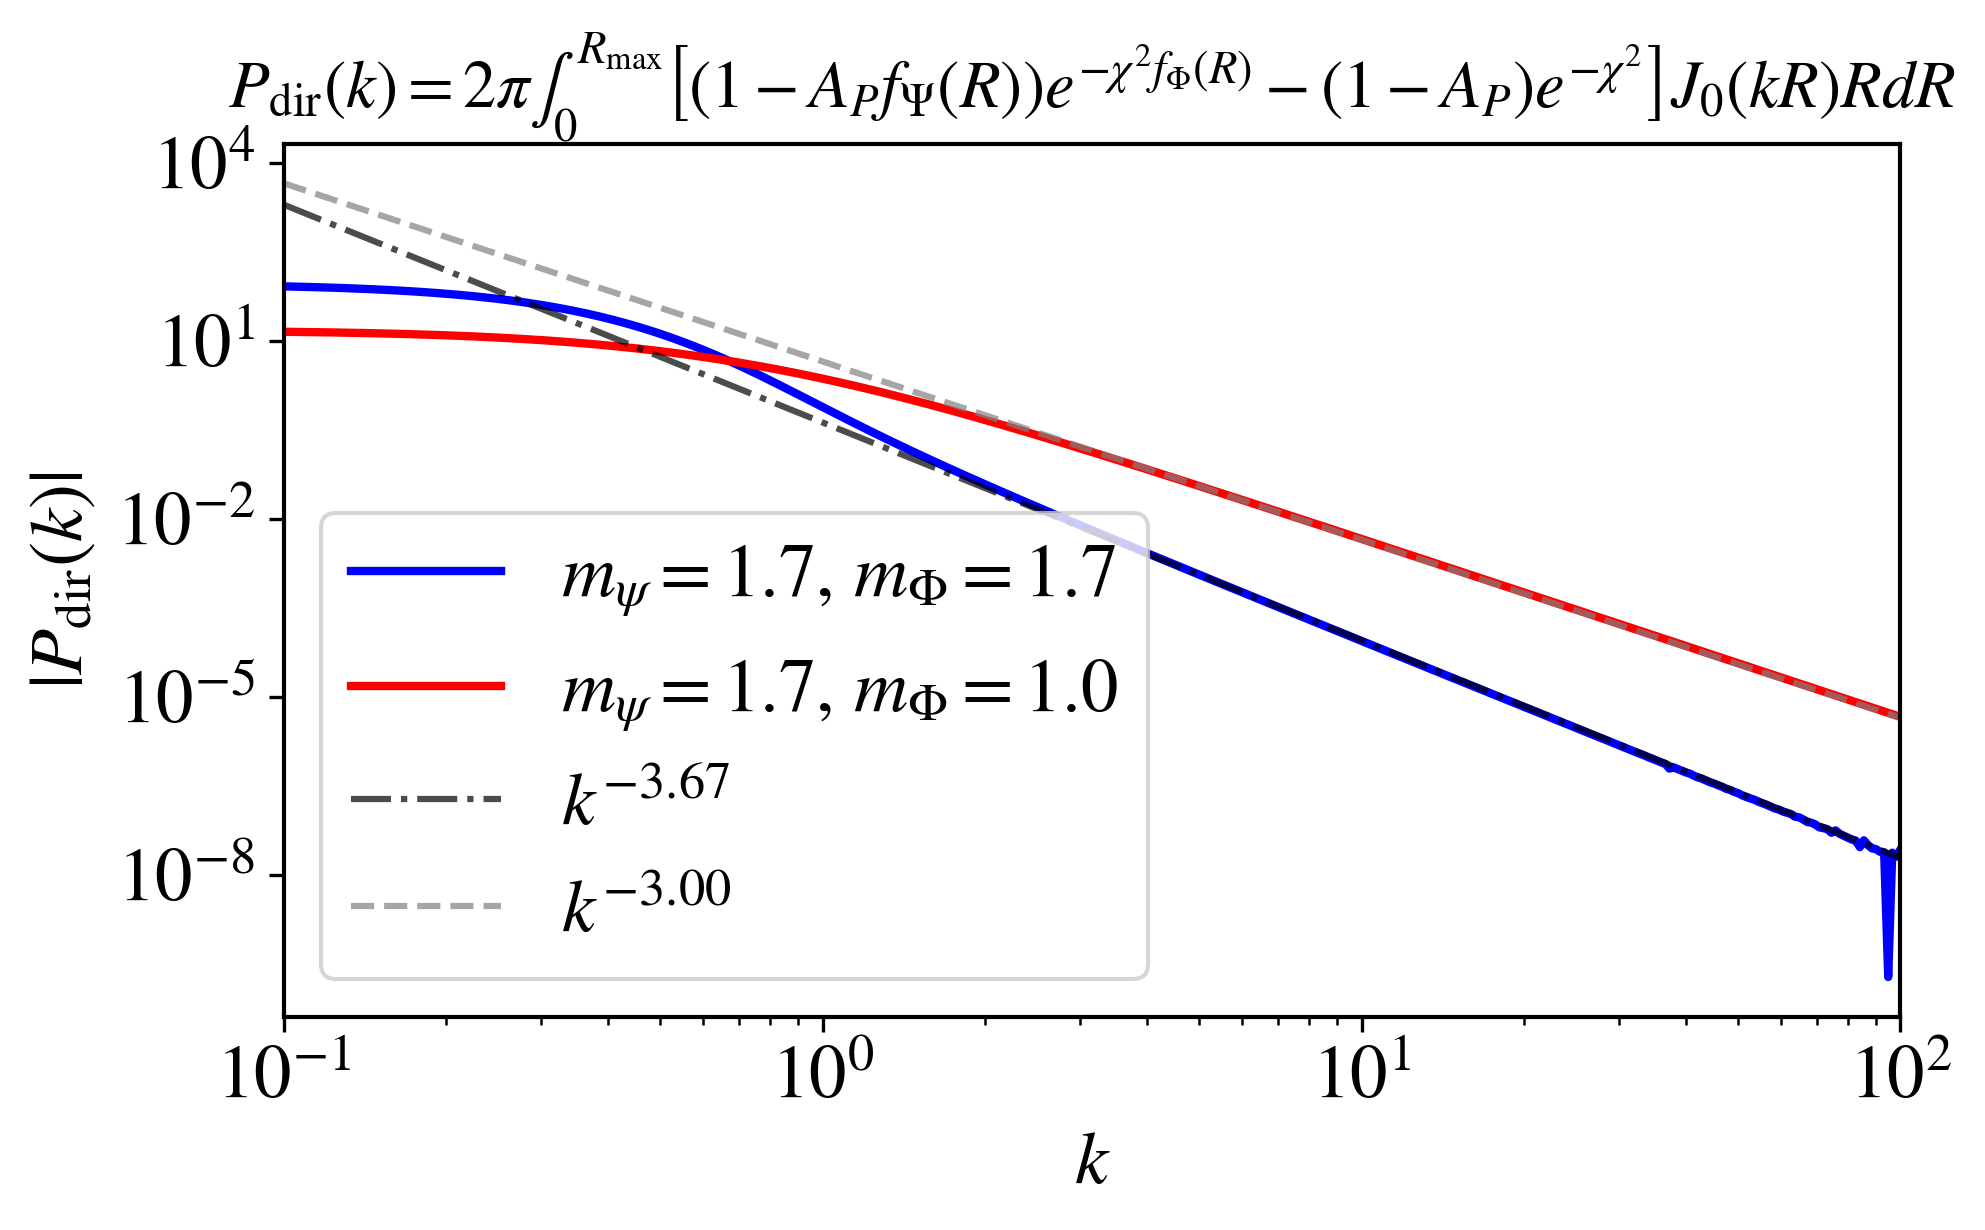
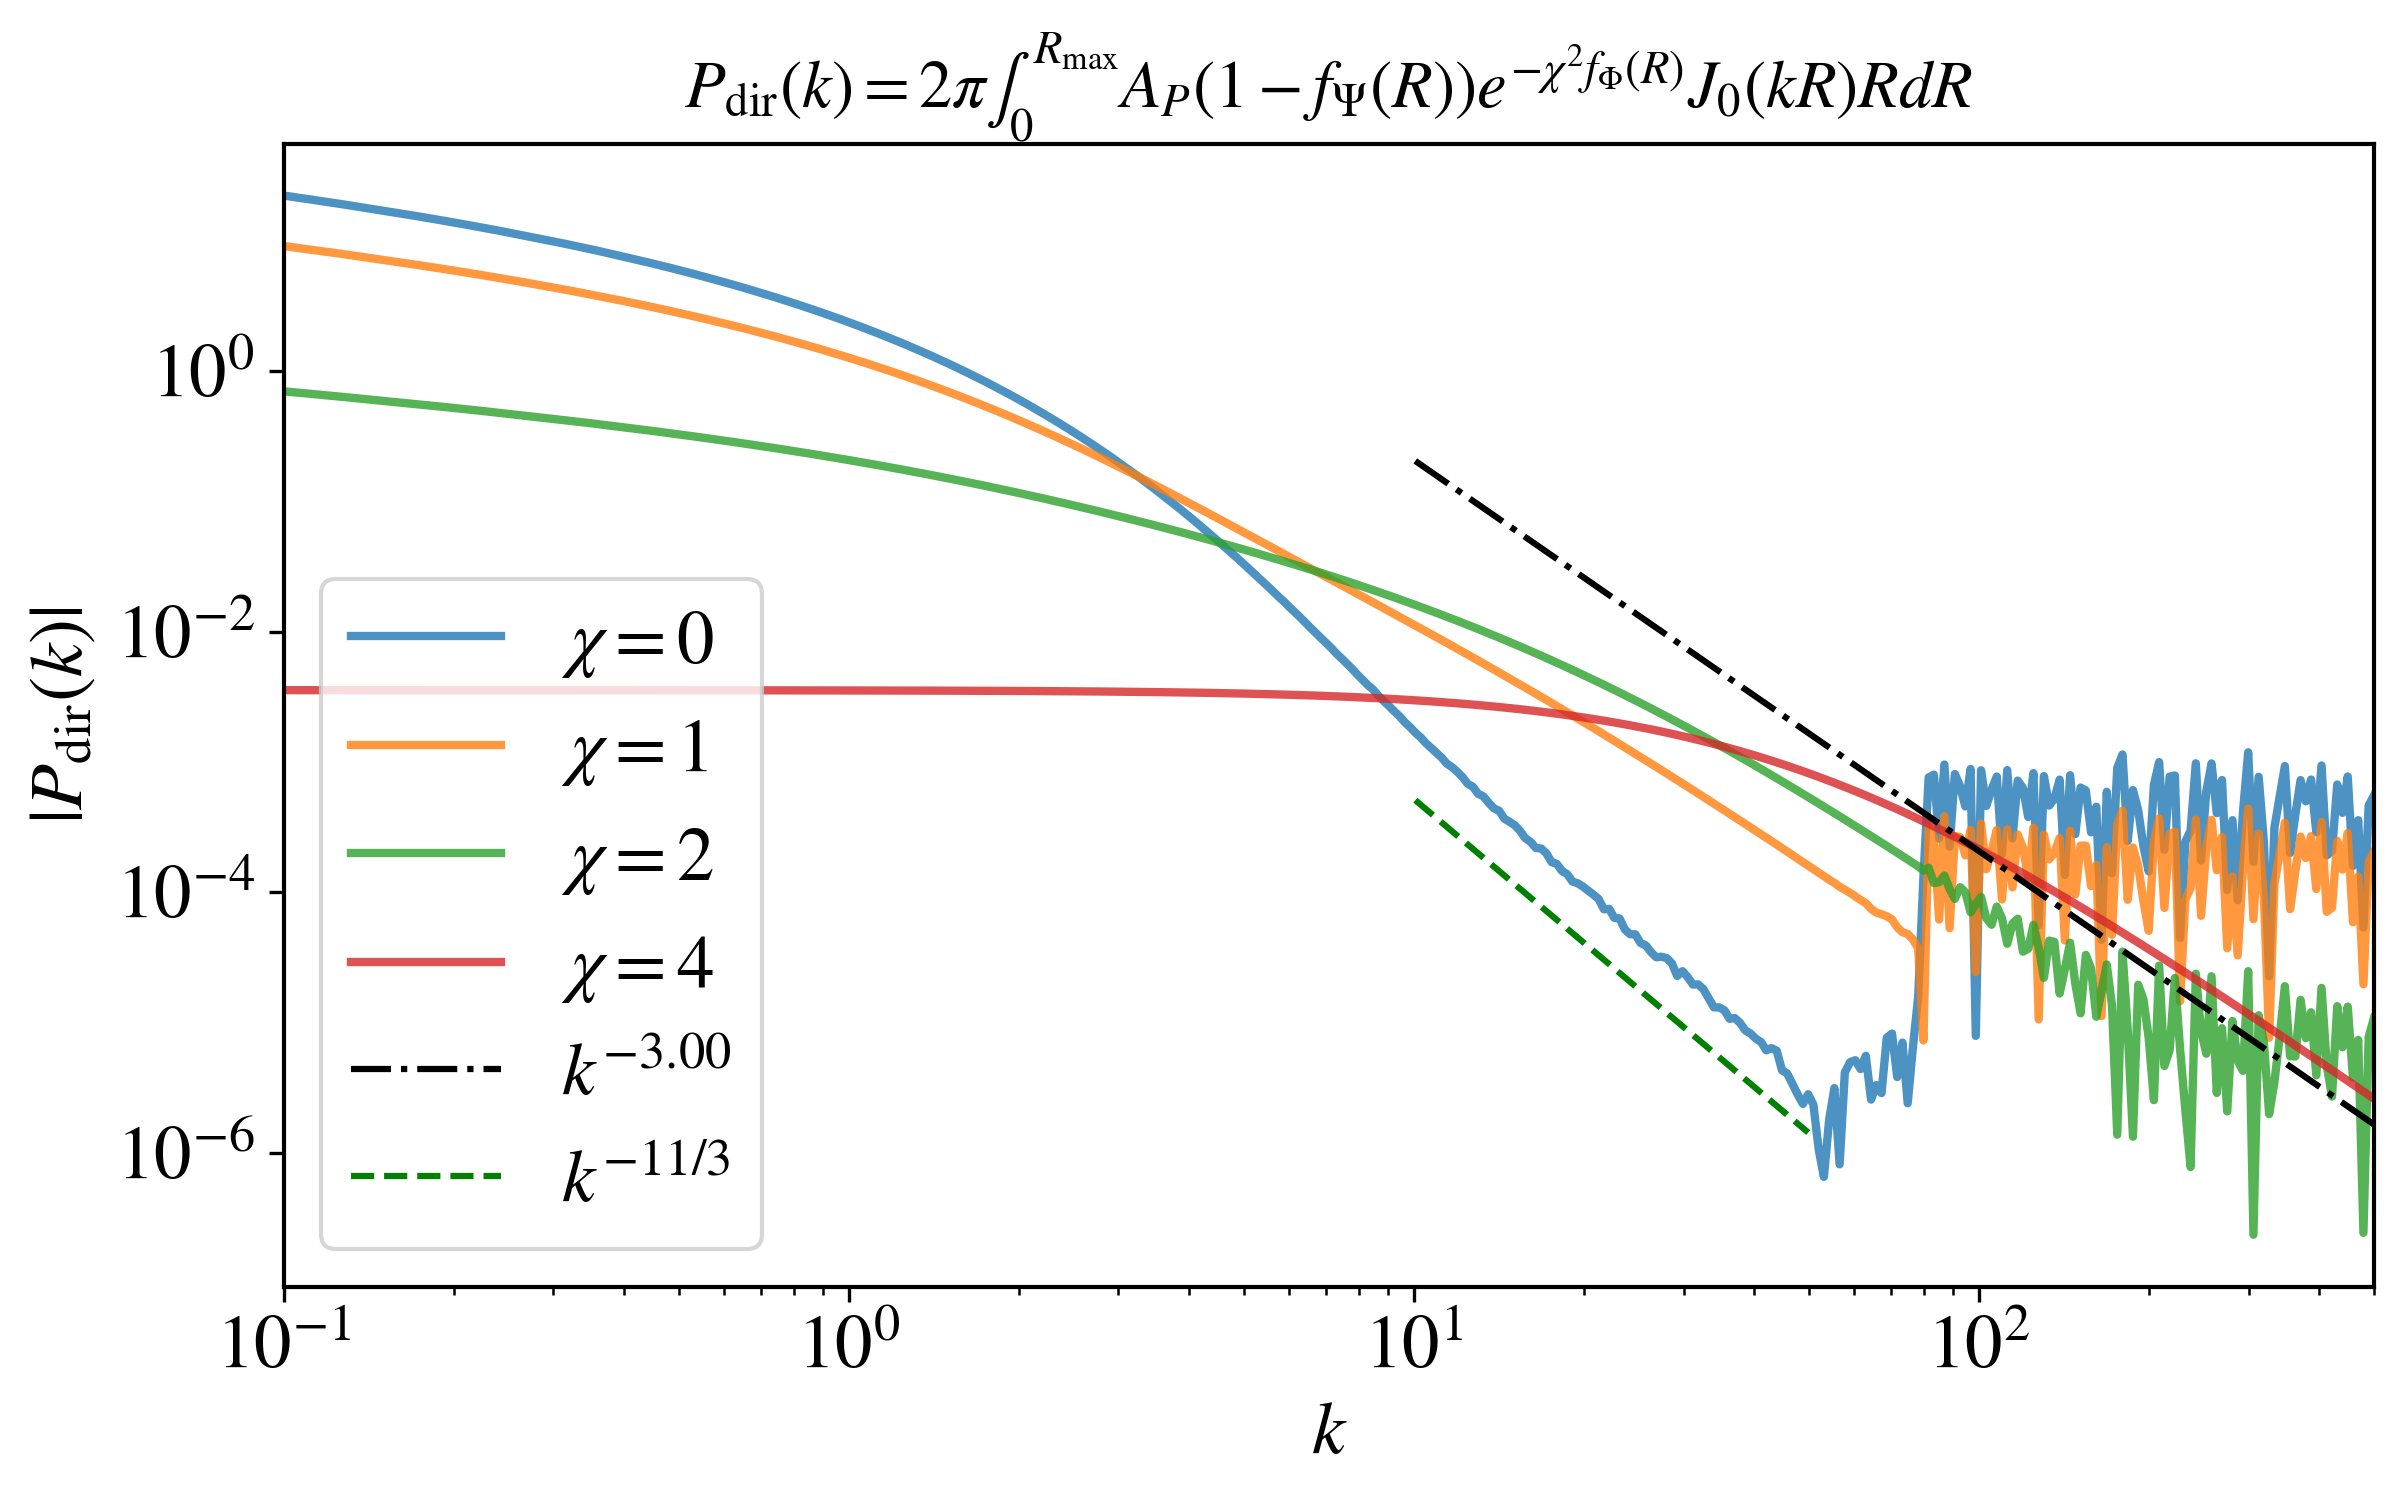
Updated the plotted P_dir functions

diff --git a/compare_measures/directional_spectrum/theor_prediction_director/henkel.py b/compare_measures/directional_spectrum/theor_prediction_director/henkel.py
@@ -1,6 +1,7 @@
 import numpy as np
 import matplotlib.pyplot as plt
-from scipy.integrate import quad
+from numba import jit, prange, types
+from numba.extending import register_jitable
 from scipy.special import j0
 
 plt.rcParams.update({
@@ -18,56 +19,76 @@ plt.rcParams.update({
 })
 
 
+@jit(nopython=True)
 def f_reg(R, r0, m):
     x = (R / r0)**m
     return x / (1.0 + x)
 
-def make_integrand(mPhi=5/3, rphi=33.8, chi=5.0,
-                   mpsi=5/3, R0=55.4, A_P=0.3):
-    def integrand(R, k):
-        fPhi = f_reg(R, rphi, mPhi)
-        fPsi = f_reg(R, R0,  mpsi)
+@jit(nopython=True)
+def trapezoidal_integral(y, x):
+    n = len(x)
+    result = 0.0
+    for i in range(n - 1):
+        result += (y[i] + y[i+1]) * (x[i+1] - x[i]) / 2.0
+    return result
 
-        Re_xiP = 1.0 - A_P * fPsi
-        Cdir   = Re_xiP * np.exp(-(chi**2) * fPhi)
+@jit(nopython=True, parallel=True)
+def compute_Pdir_parallel(k_values, R, j0_matrix, mPhi, rphi, chi, mpsi, R0, A_P):
+    n_k = len(k_values)
+    results = np.zeros(n_k, dtype=np.complex128)
+    
+    for i in prange(n_k):
+        n_R = len(R)
+        integrand_vals = np.zeros(n_R, dtype=np.complex128)
+        
+        for j in range(n_R):
+            R_val = R[j]
+            fPhi = f_reg(R_val, rphi, mPhi)
+            fPsi = f_reg(R_val, R0, mpsi)
+            j0_val = j0_matrix[i, j]
+            integrand_vals[j] = A_P * (1.0 - fPsi) * np.exp(-(chi**2) * fPhi) * j0_val * R_val
+        
+        val = trapezoidal_integral(integrand_vals, R)
+        results[i] = 2.0 * np.pi * val
+    
+    return results
 
-        Cinf = (1.0 - A_P) * np.exp(-(chi**2))
-
-        return (Cdir - Cinf) * j0(k * R) * R
-
-    return integrand
-
-def compute_Pdir(k, integrand, Rmax):
-    val, err = quad(integrand, 0.0, Rmax, args=(k,), limit=600)
+def compute_Pdir(k, integrand, Rmax, n_points=50000, Rmin=1e-6):
+    R = np.logspace(np.log10(Rmin), np.log10(Rmax), n_points)
+    integrand_values = integrand(R, k)
+    val = trapezoidal_integral(integrand_values, R)
     return 2*np.pi * val
 
 
 def main():
-    Rmax = 256.0
+    Rmax = 1024*2#256.0
 
-    rphi = 0.8#33.8
-    chi_values = [0.8, 2.0, 5.0]
+    rphi = 0.3#33.8
+    chi_values = [0, 1, 2, 4]#0.8, 2.0, 5.0]
 
     mpsi = 5.0/3.0
     R0   = 1#55.4
     A_P  = 1
 
-    k_values = np.logspace(np.log10(0.1), np.log10(100.0), 400)
+    k_values = np.logspace(np.log10(0.1), np.log10(500.0), 400)
 
     mPhi_values = [1]#[5.0/3.0, 1.0]
-    colors_mPhi53 = ['#1f77b4', '#ff7f0e', '#2ca02c']
-    colors_mPhi1 = ['#d62728', '#9467bd', '#8c564b']
+    colors_mPhi53 = ['#1f77b4', '#ff7f0e', '#2ca02c', '#d62728', '#9467bd', '#8c564b']
+    colors_mPhi1 = ['#e377c2', '#17becf', '#bcbd22', '#ff9896', '#c5b0d5', '#ffbb78']
     linestyles = ['-', '--']
     
     all_Pdir = []
     
-    plt.figure(figsize=(7, 4.5))
+    plt.figure(figsize=(7*1.2, 4.5*1.2))
+    
+    R = np.logspace(np.log10(1e-5), np.log10(Rmax), 500000)
+    
+    kR_matrix = np.outer(k_values, R)
+    j0_matrix = j0(kR_matrix)
     
     for i, mPhi in enumerate(mPhi_values):
         for j, chi in enumerate(chi_values):
-            integrand = make_integrand(mPhi=mPhi, rphi=rphi, chi=chi,
-                                      mpsi=mpsi, R0=R0, A_P=A_P)
-            Pdir = np.array([compute_Pdir(k, integrand, Rmax) for k in k_values])
+            Pdir = compute_Pdir_parallel(k_values, R, j0_matrix, mPhi, rphi, chi, mpsi, R0, A_P)
             all_Pdir.append(Pdir)
             
             if i == 0:
@@ -77,17 +98,25 @@ def main():
             
             plt.loglog(k_values, np.abs(Pdir), color=color, 
                       linestyle=linestyles[i], lw=2, alpha=0.8,
-                      label=rf"$m_\psi={mpsi:.1f}$, $m_\Phi={mPhi:.1f}$, $\chi={chi}$")
+                      label=rf"$\chi={chi}$")#$m_\psi={mpsi:.1f}$, $m_\Phi={mPhi:.1f}$, 
 
     k0 = 5.0
     i0 = np.argmin(np.abs(k_values - k0))
+    mask_k_gt_1 = k_values > 10
+    mask_k_gt_2 = (k_values > 10) & (k_values < 50)
     
     for i, mPhi in enumerate(mPhi_values):
         slope_ref = -(mPhi + 2.0)
         Pdir_ref = all_Pdir[i * len(chi_values)]
-        ref = np.abs(Pdir_ref[i0]) * (k_values / k_values[i0])**(slope_ref)
-        plt.loglog(k_values, ref, "-.", color="black", lw=1.5, alpha=0.5,
+        ref = np.abs(Pdir_ref[i0]) * (k_values / k_values[i0])**(slope_ref)*50
+        plt.loglog(k_values[mask_k_gt_1], ref[mask_k_gt_1], "-.", color="black", lw=1.5, alpha=1,
                    label=rf"$k^{{{slope_ref:.2f}}}$" if i == 0 else "")
+    
+    slope_11_3 = -11.0/3.0
+    Pdir_ref_11_3 = all_Pdir[0]
+    ref_11_3 = np.abs(Pdir_ref_11_3[i0]) * (k_values / k_values[i0])**(slope_11_3)*0.2
+    plt.loglog(k_values[mask_k_gt_2], ref_11_3[mask_k_gt_2], "--", color="green", lw=1.5, alpha=1,
+               label=r"$k^{-11/3}$")
 
     valid_mask = np.ones(len(k_values), dtype=bool)
     for Pdir in all_Pdir:
@@ -100,11 +129,11 @@ def main():
 
     plt.xlabel(r"$k$")
     plt.ylabel(r"$|P_{\rm dir}(k)|$")
-    plt.title(r"$P_{\rm dir}(k)=2\pi\int_{0}^{R_{\max}}\left[\left(1 - A_P f_\Psi(R)\right)e^{-\chi^2 f_\Phi(R)}-(1 - A_P) e^{-\chi^2}\right]J_0(kR) R  dR$", fontsize=16)#$f_\Phi(R)=\frac{(R/r_\phi)^{m_\Phi}}{1 + (R/r_\phi)^{m_\Phi}},\qquadf_\Psi(R)=\frac{(R/R_0)^{m_\Psi}}{1 + (R/R_0)^{m_\Psi}}$")
+    plt.title(r"$P_{\rm dir}(k)=2\pi\int_{0}^{R_{\max}}A_P\left(1 - f_\Psi(R)\right)e^{-\chi^2 f_\Phi(R)}J_0(kR) R  dR$", fontsize=16)
     plt.legend()
     plt.tight_layout()
-    plt.savefig("henkel.pdf", dpi=300, bbox_inches="tight")
-    plt.show()
+    plt.savefig("henkel.png", dpi=300, bbox_inches="tight")
+    # plt.show()
 
 if __name__ == "__main__":
     main()
